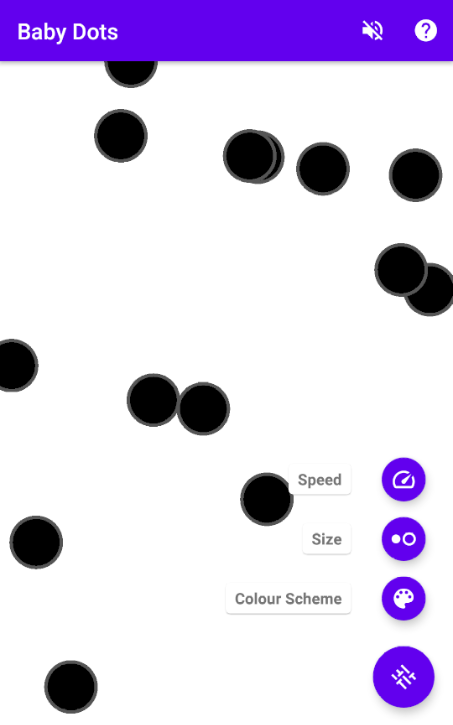
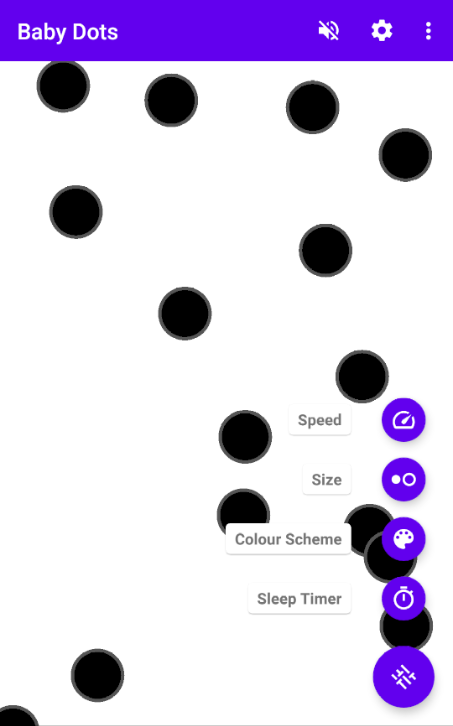
Add screenshots for sleep timer.
Also remove debugging long press to enter sleep mode.

diff --git a/app/src/main/java/com/serwylo/babydots/MainActivity.kt b/app/src/main/java/com/serwylo/babydots/MainActivity.kt
@@ -3,6 +3,7 @@ package com.serwylo.babydots
 import android.content.Intent
 import android.media.MediaPlayer
 import android.os.Bundle
+import android.os.Handler
 import android.view.*
 import android.widget.ImageView
 import android.widget.TextView
@@ -77,11 +78,6 @@ class MainActivity : AppCompatActivity() {
 
         timerWrapper.setOnClickListener {
             promptToStopTimer()
-        }
-
-        timerWrapper.setOnLongClickListener {
-            startSleepTime()
-            true
         }
 
         sleepTimeWrapper.setOnClickListener {
